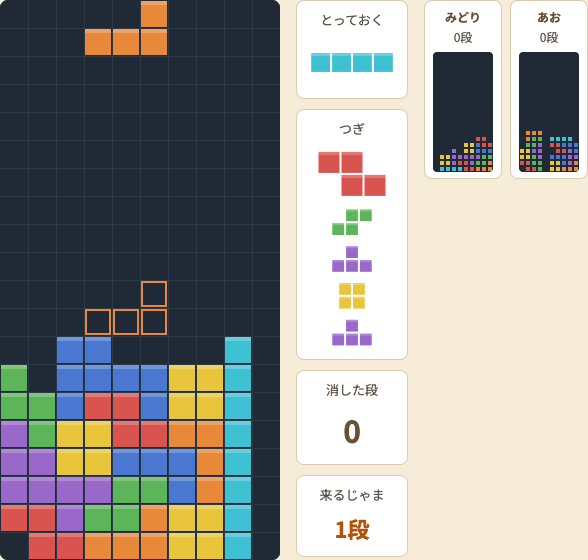
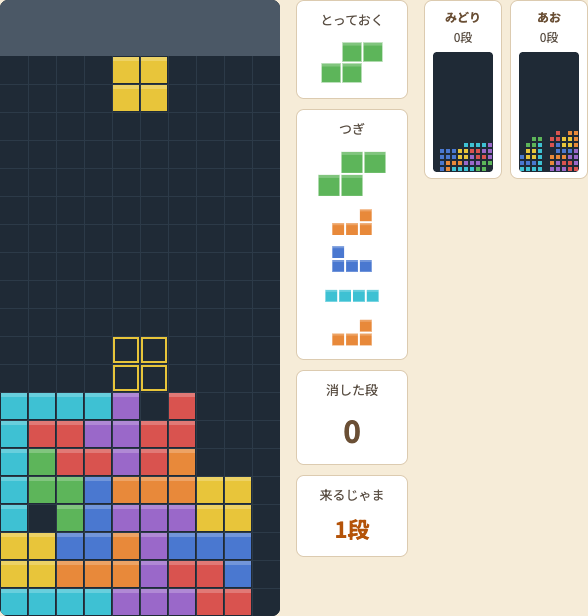
fix(suton-block): 盤の上に見えない段を足し、着想元と同じ終わり方にする
ブロックは盤のすぐ上の見えない2段に出て1段下がる。ここまでになるのは、出る所に入らないとき・
置いたブロックが全部盤より上のとき・じゃまで見えない段より上へ押し出したときだけ。
盤のすぐ上の2段は淡い帯で描き、読み込み直し用に見えない段も boards/{名前}/h で送る。
サムネイルも帯の入った画面で撮り直す。

diff --git a/apps/suton-block/engine.js b/apps/suton-block/engine.js
@@ -1,6 +1,9 @@
 /* すとんブロック 盤とブロックのしくみ（画面を持たない）
    ブラウザでは window.SutonEngine、node では require で読む。
-   ・盤は横10・たて20。上にはみ出した部分（y < 0）は空きとして扱う
+   ・盤は横10・たて20。その上に見えない段が20段ある（y = -1 〜 -20。g.hidden）。それより上は空き
+   ・ブロックは盤のすぐ上の見えない2段（y = -2・-1）に出て、すぐ1段下がる（よく知られた出かたと同じ）
+   ・おわるのは、つぎのブロックが出る所に入らないとき・置いたブロックが全部盤より上にあるとき・
+     じゃまで見えない段のいちばん上より上へ押し出されたとき（よく知られた決まりと同じ）
    ・ブロックは4マスの7種類（I・O・T・S・Z・L・J）。回す・1つとっておく、ができる
    ・回せないときは、向きの組み合わせごとに決まった5通りのずらし方を順に試す（よく知られた回し方と同じ）
    ・横1段がうまったら消える。いっぱいになったら「おしまい」か「からにしてつづける」
@@ -14,6 +17,7 @@
 
   const W = 10;
   const H = 20;
+  const HB = 20; // 盤の上の見えない段の数
 
   // 形は n×n の箱の中のマス [x, y]（はじめの向き）。色は画面側で kind から決める
   // 箱の中で回すと、よく知られた回し方と同じ向きの変わり方になる（I は4×4、O は2×2、ほかは3×3）
@@ -86,6 +90,8 @@
 
   function rotateCells(cells, n) { return cells.map(([x, y]) => [n - 1 - y, x]); }
 
+  const SPAWN_Y = -2; // 出る所（箱の上の段が y = -2）
+
   function newPiece(spec) {
     const s = SHAPES[spec.kind];
     return { kind: spec.kind, n: s.n, rot: 0, cells: s.cells.map((c) => c.slice()), x: Math.floor((W - s.n) / 2), y: -1 };
@@ -94,6 +100,7 @@
   // 盤をからにしてつづける。れんぞく・つづけて大技もそこまで
   function resetBoard(g) {
     g.board = emptyBoard();
+    g.hidden = emptyHidden();
     g.resets++;
     g.b2b = false;
     g.combo = -1;
@@ -105,21 +112,35 @@
     return b;
   }
 
-  function fits(board, p, cells, x, y) {
+  function emptyHidden() {
+    const b = [];
+    for (let i = 0; i < HB; i++) b.push(new Array(W).fill(null));
+    return b;
+  }
+
+  // hidden（盤の上の見えない段）を渡すと、y < 0 もそこで確かめる。渡さなければ y < 0 は空き
+  function fits(board, p, cells, x, y, hidden) {
     for (const [cx, cy] of cells) {
       const bx = x + cx;
       const by = y + cy;
       if (bx < 0 || bx >= W || by >= H) return false;
-      if (by >= 0 && board[by][bx]) return false;
+      if (by >= 0) { if (board[by][bx]) return false; }
+      else if (hidden && by >= -HB && hidden[HB + by][bx]) return false;
     }
     return true;
   }
+  const fitsG = (g, p, cells, x, y) => fits(g.board, p, cells, x, y, g.hidden);
+
+  // 見えない段と盤をつないだ1つの列（上から）。分けもどすのは splitField
+  const fieldOf = (g) => g.hidden.concat(g.board);
+  function splitField(g, f) { g.hidden = f.slice(0, HB); g.board = f.slice(HB); }
 
   function createGame(opts) {
     const o = Object.assign({ seed: 1, onFull: 'clear' }, opts);
     const rand = rng(o.seed);
     const g = {
       board: emptyBoard(),
+      hidden: emptyHidden(), // 盤の上の見えない段（hidden[HB + y] が y 段目。y は -1 〜 -HB）
       piece: null,
       queue: [],
       lines: 0,
@@ -127,7 +148,7 @@
       resets: 0,
       taken: 0,         // 出る順番の列から取り出した数（読み込み直したとき、同じところから続けるため）
       over: false,
-      overBy: null,     // おしまいになったわけ（'spawn' = つぎが出せない / 'top' = 上にはみ出して置いた / 'jama' = じゃまで押し上げられた）
+      overBy: null,     // おしまいになったわけ（'spawn' = つぎが出る所に入らない / 'top' = 全部が盤より上で置いた / 'jama' = じゃまで見えない段より上へ押し出された）
       hold: null,       // とっておいたブロック（{ kind }）
       holdUsed: false,  // いまのブロックで、もう「とっておく」を使ったか
       onFull: o.onFull, // 'clear' = からにしてつづける / 'end' = おしまい
@@ -145,14 +166,17 @@
     while (g.queue.length < 5) g.queue.push(...makeBag(g.rand));
   }
 
-  // つぎのブロックを出す。出せないときは、いっぱい
+  // つぎのブロックを出す。盤のすぐ上の見えない2段に出し、入れば1段下げる（盤のいちばん上の段に見える）。
+  // 出る所に入らないときは、いっぱい
   function spawn(g, spec) {
     fillQueue(g);
     if (!spec) g.taken++;
     const p = newPiece(spec || g.queue.shift());
     fillQueue(g);
     g.holdUsed = !!spec;
-    if (!fits(g.board, p, p.cells, p.x, p.y)) {
+    p.y = SPAWN_Y;
+    if (fitsG(g, p, p.cells, p.x, p.y + 1)) p.y++;
+    else if (!fitsG(g, p, p.cells, p.x, p.y)) {
       // おしまいのときは、出せなかったブロックを重なったまま残す（なぜここまでになったか盤で見えるように。もう動かせない）
       if (g.onFull === 'end') { g.piece = p; g.over = true; g.overBy = 'spawn'; return { full: true }; }
       resetBoard(g);
@@ -166,7 +190,7 @@
   function move(g, dx, dy) {
     const p = g.piece;
     if (!p || g.over) return false;
-    if (!fits(g.board, p, p.cells, p.x + dx, p.y + dy)) return false;
+    if (!fitsG(g, p, p.cells, p.x + dx, p.y + dy)) return false;
     p.x += dx; p.y += dy;
     p.spun = false;
     return true;
@@ -183,7 +207,7 @@
     const kicks = kicksFor(p.kind, from, to);
     for (let i = 0; i < kicks.length; i++) {
       const [kx, ky] = kicks[i];
-      if (fits(g.board, p, cells, p.x + kx, p.y + ky)) {
+      if (fitsG(g, p, cells, p.x + kx, p.y + ky)) {
         p.cells = cells; p.rot = to; p.x += kx; p.y += ky;
         // 最後に回したか・何番目のずらし方で回ったか（回し入れの見分けに使う）
         p.spun = true; p.kick = i;
@@ -197,7 +221,7 @@
     const p = g.piece;
     if (!p) return 0;
     let y = p.y;
-    while (fits(g.board, p, p.cells, p.x, y + 1)) y++;
+    while (fitsG(g, p, p.cells, p.x, y + 1)) y++;
     return y;
   }
 
@@ -206,7 +230,7 @@
   function spinOf(g, p) {
     if (p.kind !== 'T' || !p.spun) return null;
     const cx = p.x + 1, cy = p.y + 1;
-    const filled = (x, y) => x < 0 || x >= W || y >= H || (y >= 0 && !!g.board[y][x]);
+    const filled = (x, y) => x < 0 || x >= W || y >= H || (y >= 0 ? !!g.board[y][x] : y >= -HB && !!g.hidden[HB + y][x]);
     const c = [filled(cx - 1, cy - 1), filled(cx + 1, cy - 1), filled(cx + 1, cy + 1), filled(cx - 1, cy + 1)]; // 左上・右上・右下・左下
     if (c.filter(Boolean).length < 3) return null;
     const front = [[0, 1], [1, 2], [2, 3], [3, 0]][p.rot || 0];
@@ -228,38 +252,34 @@
     return { attack, b2b, combo: g.combo };
   }
 
-  // 置いて、うまった段を消し、つぎを出す。消した段数・いっぱいになったか・対戦で送るじゃまの数を返す
+  // 置いて、うまった段を消し、つぎを出す。消した段数・いっぱいになったか・対戦で送るじゃまの数を返す。
+  // 盤より上（見えない段）にはみ出したマスはそのまま残る。全部が盤より上で置いたときだけ、いっぱい
   function lock(g) {
     const p = g.piece;
     if (!p || g.over) return { lines: 0, attack: 0 };
     const spin = spinOf(g, p);
-    const aboveCells = [];
+    let f = fieldOf(g);
+    let allAbove = true;
     for (const [cx, cy] of p.cells) {
       const by = p.y + cy;
-      if (by < 0) { aboveCells.push([p.x + cx, by]); continue; }
-      g.board[by][p.x + cx] = p.kind;
+      if (by >= 0) allAbove = false;
+      if (by >= -HB) f[HB + by][p.x + cx] = p.kind;
     }
     g.pieces++;
     g.holdUsed = false;
     const rows = [];
-    for (let y = 0; y < H; y++) if (g.board[y].every((c) => c)) rows.push(y);
+    for (let i = 0; i < f.length; i++) if (f[i].every((c) => c)) rows.push(i - HB);
     if (rows.length) {
-      g.board = g.board.filter((_, y) => !rows.includes(y));
-      while (g.board.length < H) g.board.unshift(new Array(W).fill(null));
+      f = f.filter((r) => !r.every((c) => c));
+      while (f.length < HB + H) f.unshift(new Array(W).fill(null));
       g.lines += rows.length;
     }
-    // 上にはみ出していたマスは、消えた段の数だけ下がって盤に入る。それでも上に残れば、いっぱい
-    let above = false;
-    for (const [x, by] of aboveCells) {
-      const ny = by + rows.length;
-      if (ny >= 0) g.board[ny][x] = p.kind;
-      else above = true;
-    }
-    const allClear = rows.length > 0 && !above && g.board.every((r) => r.every((c) => !c));
+    splitField(g, f);
+    const allClear = rows.length > 0 && f.every((r) => r.every((c) => !c));
     const atk = attackOf(g, rows.length, spin, allClear);
     let res;
-    if (above) {
-      // 上にはみ出して置いた（消えても入りきらなかった）＝いっぱい
+    if (allAbove && !rows.length) {
+      // 全部が盤より上で置いた＝いっぱい
       if (g.onFull === 'end') { g.piece = null; g.over = true; g.overBy = 'top'; res = { full: true }; }
       else { resetBoard(g); res = Object.assign({ full: true, cleared: true }, spawnOnly(g)); }
     } else {
@@ -289,27 +309,30 @@
   }
 
   // じゃまブロック（ルームで「じゃまあり」のとき）。下から rows 段、gapX の列だけあけて押し上げる。
-  // 上にはみ出したら、いっぱいと同じ扱い。いま落ちているブロックは重なるぶん上へよける
+  // 押し上げたマスは盤の上の見えない段に入る。見えない段のいちばん上より上へ押し出したら、いっぱいと同じ扱い。
+  // いま落ちているブロックは重なるぶん上へよける
   function addGarbage(g, rows, gapX) {
     if (g.over || rows <= 0) return { full: false };
     rows = Math.min(rows, H);
-    const spill = g.board.slice(0, rows).some((r) => r.some(Boolean));
+    let f = fieldOf(g);
+    const spill = f.slice(0, rows).some((r) => r.some(Boolean));
     if (spill && g.onFull !== 'end') {
       resetBoard(g);
       return { full: true, cleared: true };
     }
-    g.board = g.board.slice(rows);
+    f = f.slice(rows);
     for (let i = 0; i < rows; i++) {
       const row = new Array(W).fill('jama');
       row[((gapX % W) + W) % W] = null;
-      g.board.push(row);
+      f.push(row);
     }
+    splitField(g, f);
     // おしまいのときは、じゃまを入れて押し上げた盤のまま止める（なぜここまでになったか盤で見えるように）
     if (spill) { g.piece = null; g.over = true; g.overBy = 'jama'; return { full: true }; }
     const p = g.piece;
     if (p) {
       let up = 0;
-      while (!fits(g.board, p, p.cells, p.x, p.y) && up < rows) { p.y--; up++; }
+      while (!fitsG(g, p, p.cells, p.x, p.y) && up < rows) { p.y--; up++; }
     }
     return { full: false };
   }
@@ -327,6 +350,14 @@
   const CODE = { I: 'a', O: 'b', T: 'c', S: 'd', L: 'e', Z: 'f', J: 'g', jama: 'j' };
   const UNCODE = Object.fromEntries(Object.entries(CODE).map(([k, v]) => [v, k]));
   function packBoard(board) { return board.map((r) => r.map((c) => (c ? CODE[c] : '.')).join('')).join(''); }
+  // 見えない段（読み込み直し用）。何もなければ空の文字
+  function packHidden(hidden) { return hidden.some((r) => r.some(Boolean)) ? packBoard(hidden) : ''; }
+  function unpackHidden(s) {
+    const b = emptyHidden();
+    if (typeof s !== 'string' || s.length !== W * HB) return b;
+    for (let i = 0; i < s.length; i++) b[Math.floor(i / W)][i % W] = UNCODE[s[i]] || null;
+    return b;
+  }
   function unpackBoard(s) {
     const b = emptyBoard();
     if (typeof s !== 'string' || s.length !== W * H) return b;
@@ -344,6 +375,7 @@
     const taken = Math.max(1, Math.min(100000, Number(s.taken) || 1));
     while (g.taken < taken) spawnOnly(g);
     g.board = unpackBoard(s.b);
+    g.hidden = unpackHidden(s.h);
     g.lines = Math.max(0, Number(s.lines) || 0);
     g.pieces = Math.max(0, Number(s.pieces) || 0);
     g.resets = Math.max(0, Number(s.resets) || 0);
@@ -352,17 +384,21 @@
     g.b2b = s.b2b === true;
     g.combo = Number.isInteger(s.combo) && s.combo >= -1 ? s.combo : -1;
     if (s.out === true) { g.piece = null; g.over = true; return g; }
-    if (!fits(g.board, g.piece, g.piece.cells, g.piece.x, g.piece.y)) {
+    // 落ちていた途中のブロックは、出る所から出なおす
+    const p = g.piece;
+    p.y = SPAWN_Y;
+    if (fitsG(g, p, p.cells, p.x, p.y + 1)) p.y++;
+    else if (!fitsG(g, p, p.cells, p.x, p.y)) {
       if (g.onFull === 'end') { g.piece = null; g.over = true; }
-      else resetBoard(g);
+      else { resetBoard(g); p.y++; }
     }
     return g;
   }
 
   return {
-    W, H, SHAPES, KINDS, kicksFor,
-    rng, makeBag, newPiece, emptyBoard, fits,
+    W, H, HB, SHAPES, KINDS, kicksFor,
+    rng, makeBag, newPiece, emptyBoard, emptyHidden, fits,
     createGame, spawn, move, rotate, dropY, lock, hardDrop, addGarbage, hold, spinOf, attackOf,
-    packBoard, unpackBoard, cellsOf, restoreGame,
+    packBoard, unpackBoard, packHidden, unpackHidden, cellsOf, restoreGame,
   };
 });

diff --git a/apps/index.html b/apps/index.html
@@ -2234,7 +2234,7 @@
           <div class="app-card__icon">
             <span class="material-symbols-rounded" aria-hidden="true">view_quilt</span>
             <img class="app-card__illust" src="assets/illustrations/suton-block.webp" alt="" width="400" height="400" loading="lazy" decoding="async" />
-            <img class="app-card__thumbnail" src="assets/thumbnails/suton-block.png" alt="色とりどりのブロックが積み上がった盤と落ちてくるブロック、とっておいた棒・つぎのブロック・来るじゃま、ほかの2人の小さな盤" width="588" height="560" loading="lazy" decoding="async" />
+            <img class="app-card__thumbnail" src="assets/thumbnails/suton-block.png" alt="色とりどりのブロックが積み上がった盤と、盤の上の帯から落ちてくるブロック、とっておいたブロック・つぎのブロック・来るじゃま、ほかの2人の小さな盤" width="588" height="616" loading="lazy" decoding="async" />
           </div>
           <div class="app-card__body">
             <div class="app-card__name">すとんブロック</div>

diff --git a/apps/suton-block/index.html b/apps/suton-block/index.html
@@ -14,7 +14,7 @@
   <script src="https://www.gstatic.com/firebasejs/10.14.1/firebase-database-compat.js"></script>
   <script src="../shared/js/rtdb-utils.js?v=20261005"></script>
   <script src="../shared/js/room-qr.js?v=20261022"></script>
-  <script src="engine.js?v=20261106d"></script>
+  <script src="engine.js?v=20261106i"></script>
 </head>
 <body>
 
@@ -291,7 +291,7 @@
     </div>
   </div>
 
-  <script type="module" src="app.js?v=20261106h"></script>
+  <script type="module" src="app.js?v=20261106i"></script>
   <script src="../shared/js/stats.js?v=1" defer></script>
   <script src="../shared/js/howto.js"></script>
   <script>

diff --git a/apps/suton-block/AGENTS.md b/apps/suton-block/AGENTS.md
@@ -19,7 +19,8 @@
 
 | 項目 | 内容 |
 |---|---|
-| 盤 | 横10・たて20。上にはみ出した部分は空きとして扱う |
+| 盤 | 横10・たて20。その上に見えない段が20段ある（`engine.js` の `HB`・`g.hidden`。それより上は空き）。あそぶ画面では、そのうち盤のすぐ上の2段を淡い帯で出す（`app.js` の `TOP_ROWS`。ほかの人の盤・みんなにみせる画面は盤の20段だけ） |
+| 出る所 | ブロックは盤のすぐ上の見えない2段（y = −2・−1）に出て、入ればすぐ1段下がる（ふだんは盤のいちばん上の段に見える）。よく知られた出かたと同じ |
 | ブロック | 4マスの7種類（I・O・T・S・Z・L・J。コードの `kind` もこの文字）。7種類を1回ずつ混ぜた袋から順に出る。はじめの向きは平らな面が下（I は横・T は出っぱりが上）。2026-11-02 までは1〜4マスの8種類＋裏返すだった |
 | 色 | I 水色・O 黄・T 紫・S 緑・Z 赤・L オレンジ・J 青（`app.js` の `COLORS`。説明スライドの `COLORS` も同じ）。着想元と同じ組み合わせ。2026-11-06 フィードバックボードの「色を着想元と同じにしてほしい」を受けて、オーナーが決めた（見た目が着想元に近づくぶん、権利の上の心配が増えることは承知のうえ）。それまでは I ピンク・O 青緑・T 緑・S 黄・Z 青・L 紫・J オレンジで、よく知られた組み合わせと重ならないようにしていた |
 | 操作 | 左右・下（押しっぱなしでくり返す）・すとんと落とす・左に回す・右に回す・とっておく。画面のボタン・キーボード・マウスで操作できる。画面のボタンは2段で、2段目は回す2つと、横長の「とっておく」 |
@@ -33,7 +34,7 @@
 | 消える | 横1段がうまると消える。点は「消した段の数」だけ（何段いっしょでも1段は1） |
 | 4段いっしょに消す | 「4段すとん！」と1.4秒出す（盤にかぶせない。下の「対戦」の一言と同じ場所）（ひとり・ルーム・対戦のどれでも。対戦はほかの一言の先頭につける）。着想元の技の呼び名は使わない（`app.js` の `FOUR_LINES_WORD`）。2026-11-04 フィードバックボードの要望で足した |
 | 速さ | ゆっくり 1.0秒・ふつう 0.65秒・はやい 0.38秒で1マス落ちる。時間がたっても上がらない |
-| いっぱい | ブロックが出せない・上にはみ出して置いた（消えもしなかった）とき。ひとりは「からにしてつづける（はじめの値）」か「おしまい」を選ぶ。ルームの「段の数をくらべる」はいつも「からにしてつづける」。対戦は「その人はここまで（はじめの値）」か「からにしてつづける」を選ぶ |
+| いっぱい | よく知られた決まりと同じ3つのとき: ①つぎのブロックが出る所（見えない2段）に入らない ②置いたブロックが全部盤より上にある（1マスでも盤の中なら、はみ出したマスは見えない段に残ってつづく）③じゃまで見えない段のいちばん上より上へ押し出した（ふつうは起きない）。2026-11-06 フィードバックボードの「やられる判定がバグってる」を受けて、オーナーが着想元と同じ終わり方に決めた。それまでは見えない段がなく、出る所に盤のいちばん上の段も入り、1マスでも上にはみ出して置いた・じゃまでどこかのマスが盤より上へ押し出されたら終わっていた（対戦を400回まわすと約7割がじゃまで終わっていた）。ひとりは「からにしてつづける（はじめの値）」か「おしまい」を選ぶ。ルームの「段の数をくらべる」はいつも「からにしてつづける」。対戦は「その人はここまで（はじめの値）」か「からにしてつづける」を選ぶ |
 | からにした回数 | 盤をからにしてつづけた回数（`resets`）。ルームの結果（「対戦」の「ここまで」のときはからにしないので出さない）と、ひとりの「からにしてつづける」の結果に出す。記録はしない（2026-11-04） |
 | 落ちる先 | 盤の中に枠で出す |
 
@@ -63,7 +64,7 @@
 - 2段いじょういっしょに消すと、（消した段数−1）段のじゃまを送る。送る先は、あそぶ人の並び（`round.players`）で自分のつぎの人（最後の人は最初の人へ）。ひとりだけなら送らない
 - 届いたじゃまは「来るじゃま」にたまり、つぎに段を消さずに置いたとき、盤の下から灰色の段として入る。どの段も同じ1列があいている（列は入るたびにでたらめ）
 - 来るじゃまがあるときに段を消すと、消した段の数だけ来るじゃまがへる。へらしたぶん、送るじゃまも少なくなる
-- じゃまで上にはみ出したら、いっぱいと同じく盤をからにしてつづける
+- じゃまで押し上げたマスは盤の上の見えない段に入る（すぐには終わらない）。見えない段のいちばん上より上へ押し出したら、いっぱいと同じく盤をからにしてつづける
 - 送るのは `jama/{相手}` への push。受けた端末が数えたら消す（同じじゃまを二度数えないよう、受けとったキーを覚える）
 - 結果は、じゃまありでも消した段の数でくらべる
 
@@ -165,7 +166,7 @@ sutonblock_rooms/{roomCode}/
   │    ├── players: [名前...]         # はじめた時点のあそぶ人（入った順。ホストは hostPlays のとき）
   │    └── endedAt:                   # 「早めにおわる」の時刻（ServerValue.TIMESTAMP）
   ├── roundUids/{name}:   その回の人の匿名ID（その名前は、回の間は同じ人だけが使える）
-  ├── boards/{name}:      { round, b: 200文字の盤, lines, pieces, resets, taken, hold, holdUsed, b2b, combo, sent, pending, done, out, outAt }
+  ├── boards/{name}:      { round, b: 200文字の盤, h: 盤の上の見えない段（200文字。何もなければ書かない）, lines, pieces, resets, taken, hold, holdUsed, b2b, combo, sent, pending, done, out, outAt }
   │                              # b2b・combo は読み込み直しで対戦の続きに要るもの。sent は送ったじゃまの数。out・outAt は対戦の「ここまで」
   ├── jama/{name}/{pushId}: { round, rows, from }   # 来るじゃま。受けた端末が数えて消す
   └── result:             { id, mode, full, at, rows: [{ name, lines, sent, resets, out, outAt }] }
@@ -200,7 +201,7 @@ sutonblock_rooms/{roomCode}/
 | ゲスト | `players/{name}` を `remove()` |
 
 - `.info/connected` が true になるたびに切断予約を張り直し、在室を書き戻す（3秒に1回まで）
-- **読み込み直し**: 同じタブなら sessionStorage から同じルームへ戻る。あそんでいる回の途中なら、`boards/{自分}` から盤・段の数・とっておいたもの・来るじゃまを戻し、同じ種で「出る順番の列から取り出した数」（`taken`）まで進めて同じ順番の続きにする（`engine.js` の `restoreGame`）。落ちていた途中のブロックは、はじめの位置から出なおす
+- **読み込み直し**: 同じタブなら sessionStorage から同じルームへ戻る。あそんでいる回の途中なら、`boards/{自分}` から盤・盤の上の見えない段（`h`）・段の数・とっておいたもの・来るじゃまを戻し、同じ種で「出る順番の列から取り出した数」（`taken`）まで進めて同じ順番の続きにする（`engine.js` の `restoreGame`）。落ちていた途中のブロックは、出る所から出なおす
 - 切れた人・退出した人は、ほかの人の画面で「いまはいない」と出る（小さな盤をうすく。ホストは `hostConnected` で見る。切れたのか退出したのかは区別できない）。結果にはその回の人として出る
 - 来るじゃまは、受けとったじゃまを消すのと同じ1回の update で `boards/{自分}/pending` に書く（置く前に読み込み直しても消えない）。書けなかったら数えたぶんをもどし、つぎの更新でやりなおす
 - ホスト切断中、待合室と結果の画面では共通のオーバーレイ。期限はふだん切れてから2分、あそんでいる回は時間で結果が出て2分たつまで、結果は出てから2分たつまでのばす（`expiryAt`）。**あそんでいる間（時間のあと結果を待つ間も）はオーバーレイで盤をかくさず**、あそぶ画面のバーに「ホストの通信が切れています」と出す（時間で結果が出るので、ホストがいなくても続けられる）。`ORPHAN_TTL_MS = 2 * 60 * 1000`
@@ -300,3 +301,4 @@ sutonblock_rooms/{roomCode}/
 2026-11-04（左右の押しっぱなし）: しくみのテスト 24項目・その3のひとりの部分（S1〜S26。S22〜S26 が押しっぱなし）を、エミュレーターなしで合格。直す前の main では S23〜S25 が NG（Playwright は OS のくり返しを出さないため、キーボードは1マスしか動かなかった）。ルームの E2E（その1・その2・その3のルーム部分）は、Java が無く流していない。
 2026-11-04（対戦）: しくみのテスト 31項目（回し入れダブル4・つづけて大技＋1・れんぞくの足し方・全部消えたら10・小さな回し入れ・回したあと動かしたら回し入れにならない・ここまでの読み込み直し）。E2E その1 76項目・その2 36項目・その3 41項目（ひとりの部分は S1〜S21 のまま）、その4（対戦）39項目、すべて合格。その4: 設定の出し分け・時間なし・ここまでになった人の out・ここまでの人をとばして4段届く・消さずに置くと4段入る・ここまでの人あてに届いたじゃまをつぎの人が受けとる・退出でここまで・のこりが1人で結果・のこった人が1位・からにしてつづける対戦の結果・段の数をくらべる結果のからにした回数。待合室は 375px で横にはみ出さない。あそぶ画面は 375px・広い画面とも、ほかの人の欄に「◯段」か「ここまで」が収まる（ならべて見る画面の大きな盤は「送った◯段・ここまで」）。
 二重レビュー（2026-11-04）: Codex（CLI・読み取り専用）。直したもの: 退出の間に盤を送って「ここまで」を上書きしうる／ここまでの反映前に送ったじゃまが、ここまでの人あてに届いて消える／送り先がいないのに送ったじゃまの数が増える／送るじゃまと盤が別の書き込みで、片方だけ届くと読み込み直しで数がずれる。説明スライドは16枚に（「ルームであそぶ」を2つのあそびかたに・対戦の2枚「送るじゃま」「盤がいっぱいになったら」を足す・待合室の設定と Q&A を対戦に合わせる）。1280×720 で、足したスライドの文字のはみ出しがないことと、発表者ノートが新しいスライドに合うことを見た（5枚目「動かしかた」の本文の枠が少しはみ出すのは前から。見た目では収まっている）。スライドの番号がずれたので、書きかえた発表者ノートの保存先を `sbs_note_v2_` に分けた。
+2026-11-06（盤の上の見えない段・着想元と同じ終わり方）: しくみのテスト 37項目（出る所・出る所に入らないとき・一部が盤の中なら置いてもつづく・全部が盤より上ならおしまい・じゃまで押し上げても見えない段に入ってつづく・見えない段より上へ押し出したらおしまい・見えない段を送って戻す）。E2E その1 76項目・その2 36項目・その3 48項目・その4 43項目、すべて合格（その4に B19d〜B19g を足した: 左はしの列が19段の盤でじゃま2段を受けてもここまでにならず、盤より上へ出たマスを `h` で送り、読み込み直しても残る。B19e〜B19g は直す前の main では NG）。画面は 1024×768・375×812 で、盤の上の帯に、はみ出して置いたマスが見えることを確かめた。
